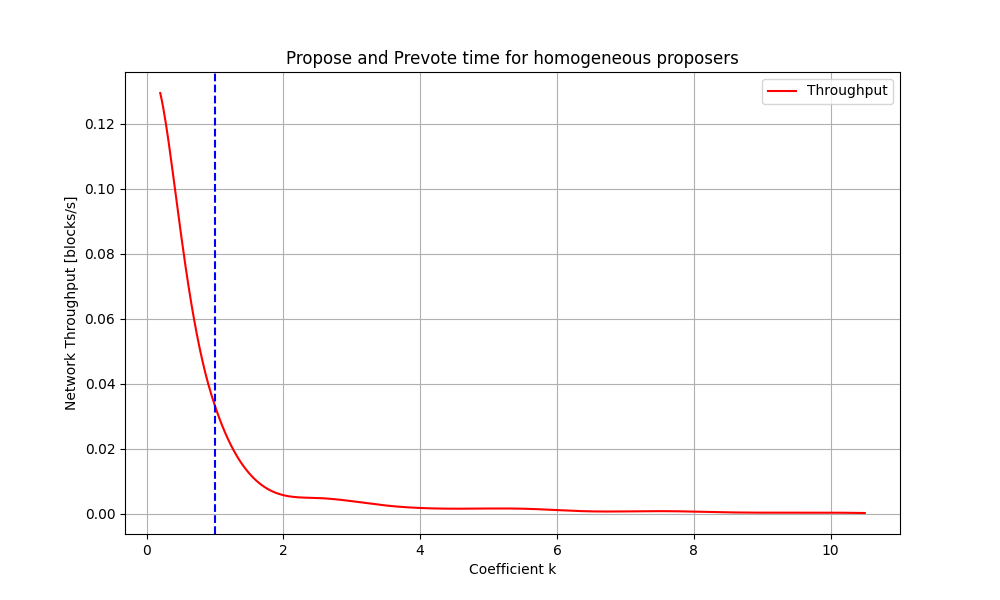
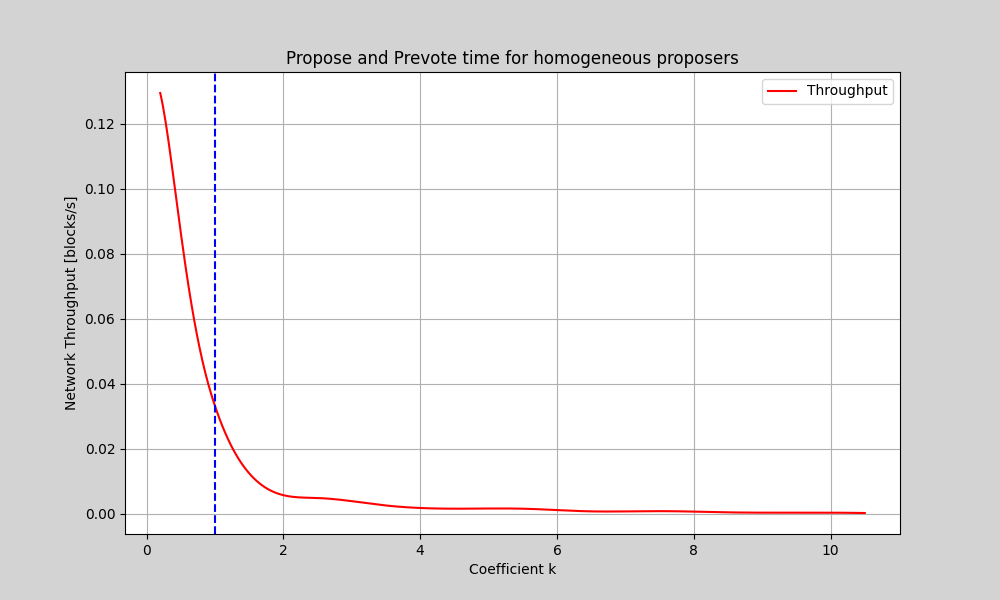
Add lightgray background

diff --git a/plots/plots.py b/plots/plots.py
@@ -32,7 +32,7 @@ k_values_pv, pv_values = parse_csv_to_arrays(file_path_pv)
 k_fine_pv, p_fine_pv = interpolate(k_values_pv, pv_values)
 
 # Plot and save for "Throughput: pv"
-plt.figure(figsize=(10, 6))
+plt.figure(figsize=(10, 6), facecolor='lightgray')
 plt.plot(k_fine_pv, p_fine_pv, '-', label="Network Throughput", color="blue")
 plt.title("Timeout increase rate for non-homogeneous proposers")
 plt.xlabel("Coefficient g")
@@ -50,7 +50,7 @@ k_values_pv, pv_values = parse_csv_to_arrays(file_path_pv)
 k_fine_pv, p_fine_pv = interpolate(k_values_pv, pv_values)
 
 # Plot and save for "Throughput: pv"
-plt.figure(figsize=(10, 6))
+plt.figure(figsize=(10, 6) , facecolor='lightgrey')
 plt.plot(k_fine_pv, p_fine_pv, '-', label="Network Throughput", color="blue")
 plt.title("Timeout increase rate for homogeneous proposers")
 plt.xlabel("Coefficient g")
@@ -68,7 +68,7 @@ k_values_pv, pv_values = parse_csv_to_arrays(file_path_pv)
 k_fine_pv, p_fine_pv = interpolate(k_values_pv, pv_values)
 
 # Plot and save for "Throughput: pv"
-plt.figure(figsize=(10, 6))
+plt.figure(figsize=(10, 6) , facecolor='lightgrey')
 plt.plot(k_fine_pv, p_fine_pv, '-', label="Throughput", color="red")
 plt.axvline(x=1, color="blue", linestyle="--")
 plt.title("Prevote time for non-homogeneous proposers")
@@ -88,7 +88,7 @@ k_values_pv, pv_values = parse_csv_to_arrays(file_path_pv)
 k_fine_pv, p_fine_pv = interpolate(k_values_pv, pv_values)
 
 # Plot and save for "Throughput: pv"
-plt.figure(figsize=(10, 6))
+plt.figure(figsize=(10, 6) , facecolor='lightgrey')
 plt.plot(k_fine_pv, p_fine_pv, '-', label="Throughput", color="red")
 plt.axvline(x=1, color="blue", linestyle="--")
 plt.title("Prevote time for homogeneous proposers")
@@ -109,7 +109,7 @@ k_fine_pv, p_fine_pv = interpolate(k_values_pv, pv_values)
 
 
 # Plot and save for "Throughput: pv"
-plt.figure(figsize=(10, 6))
+plt.figure(figsize=(10, 6), facecolor='lightgrey')
 plt.plot(k_fine_pv, p_fine_pv, '-', label="Throughput", color="red")
 plt.axvline(x=1, color="blue", linestyle="--")
 plt.title("Propose and Prevote time for homogeneous proposers")
@@ -130,7 +130,7 @@ k_fine_pv, p_fine_pv = interpolate(k_values_pv, pv_values)
 
 
 # Plot and save for "Throughput: pv"
-plt.figure(figsize=(10, 6))
+plt.figure(figsize=(10, 6), facecolor='lightgrey')
 plt.plot(k_fine_pv, p_fine_pv, '-', label="Throughput", color="blue")
 plt.axvline(x=1, color="orange", linestyle="--")
 plt.axvline(x=1.8, color="red", linestyle="--", label="Optimal σ")
@@ -152,7 +152,7 @@ k_fine_pv, p_fine_pv = interpolate(k_values_pv, pv_values)
 
 
 # Plot and save for "Throughput: pv"
-plt.figure(figsize=(10, 6))
+plt.figure(figsize=(10, 6), facecolor='lightgrey')
 plt.plot(k_fine_pv, p_fine_pv, '-', label="Throughput", color="blue")
 plt.axvline(x=1, color="orange", linestyle="--")
 plt.axvline(x=4, color="red", linestyle="--", label="Optimal σ")
